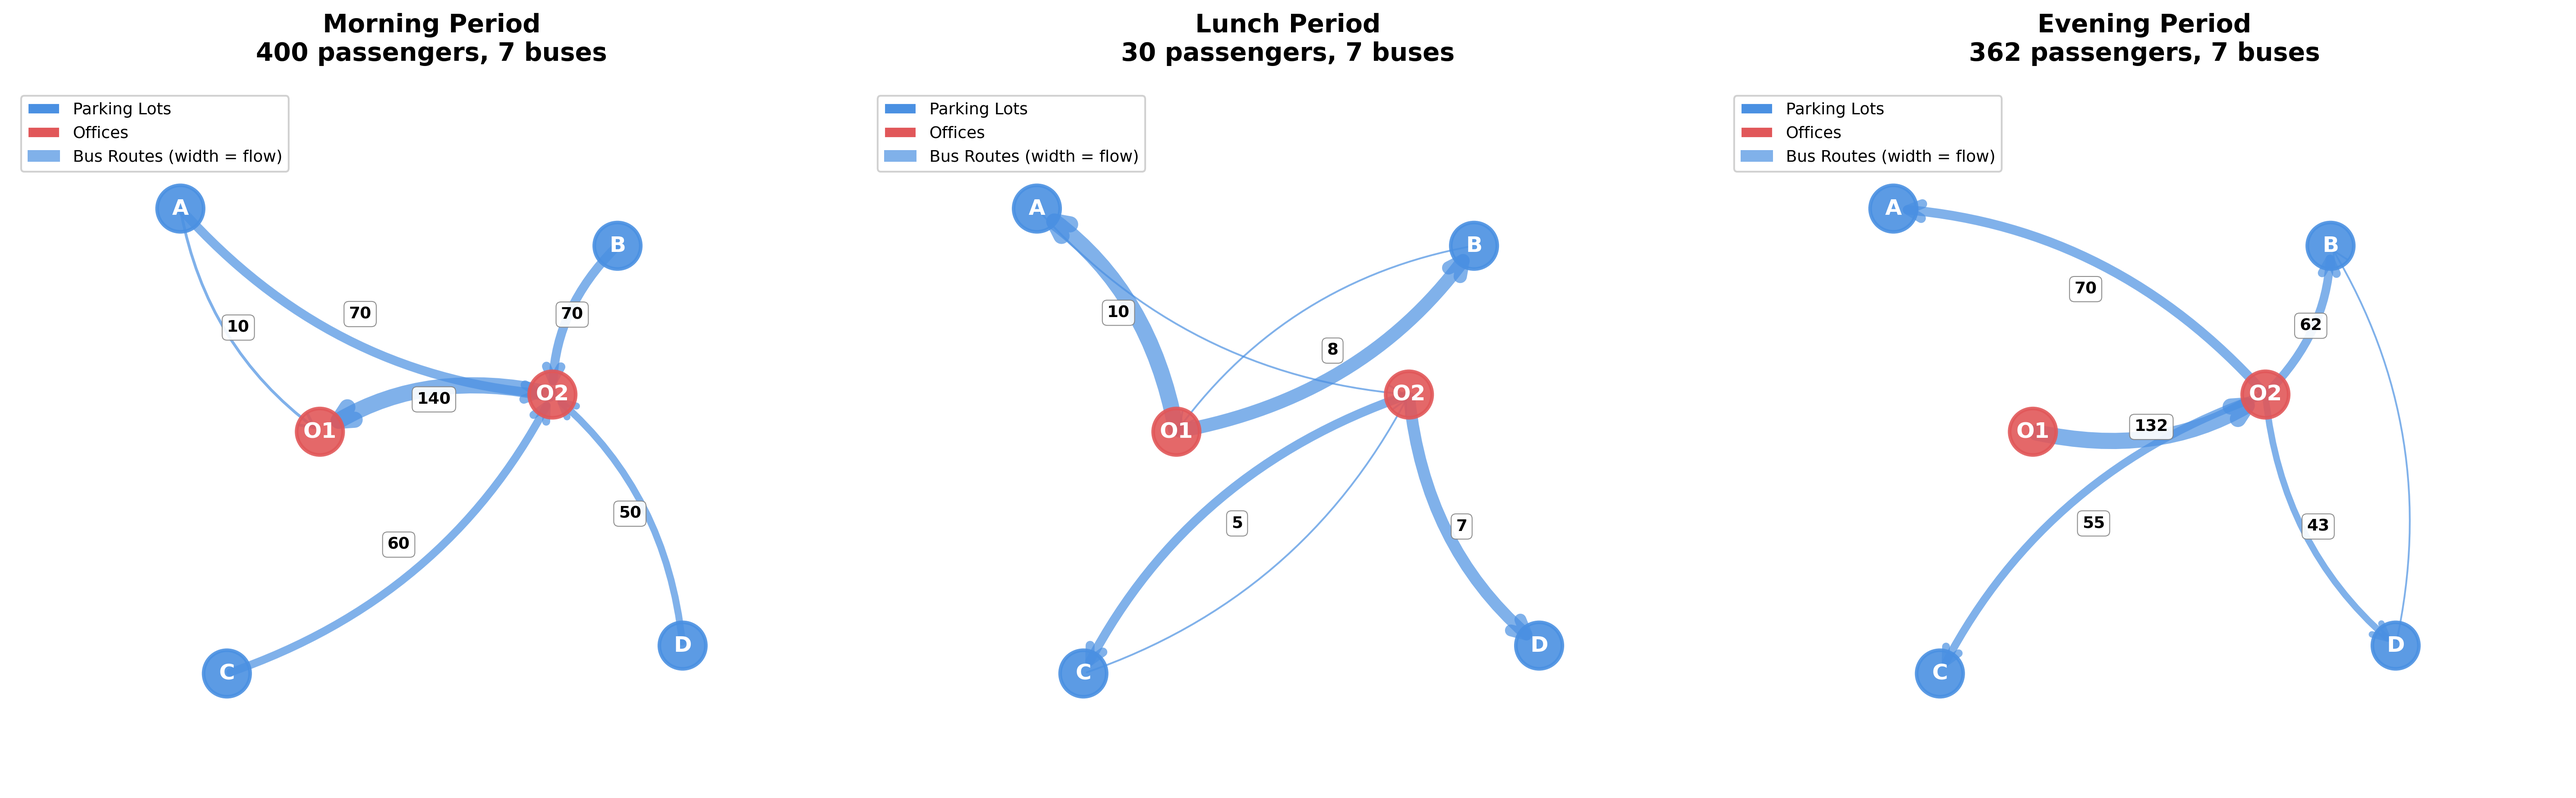
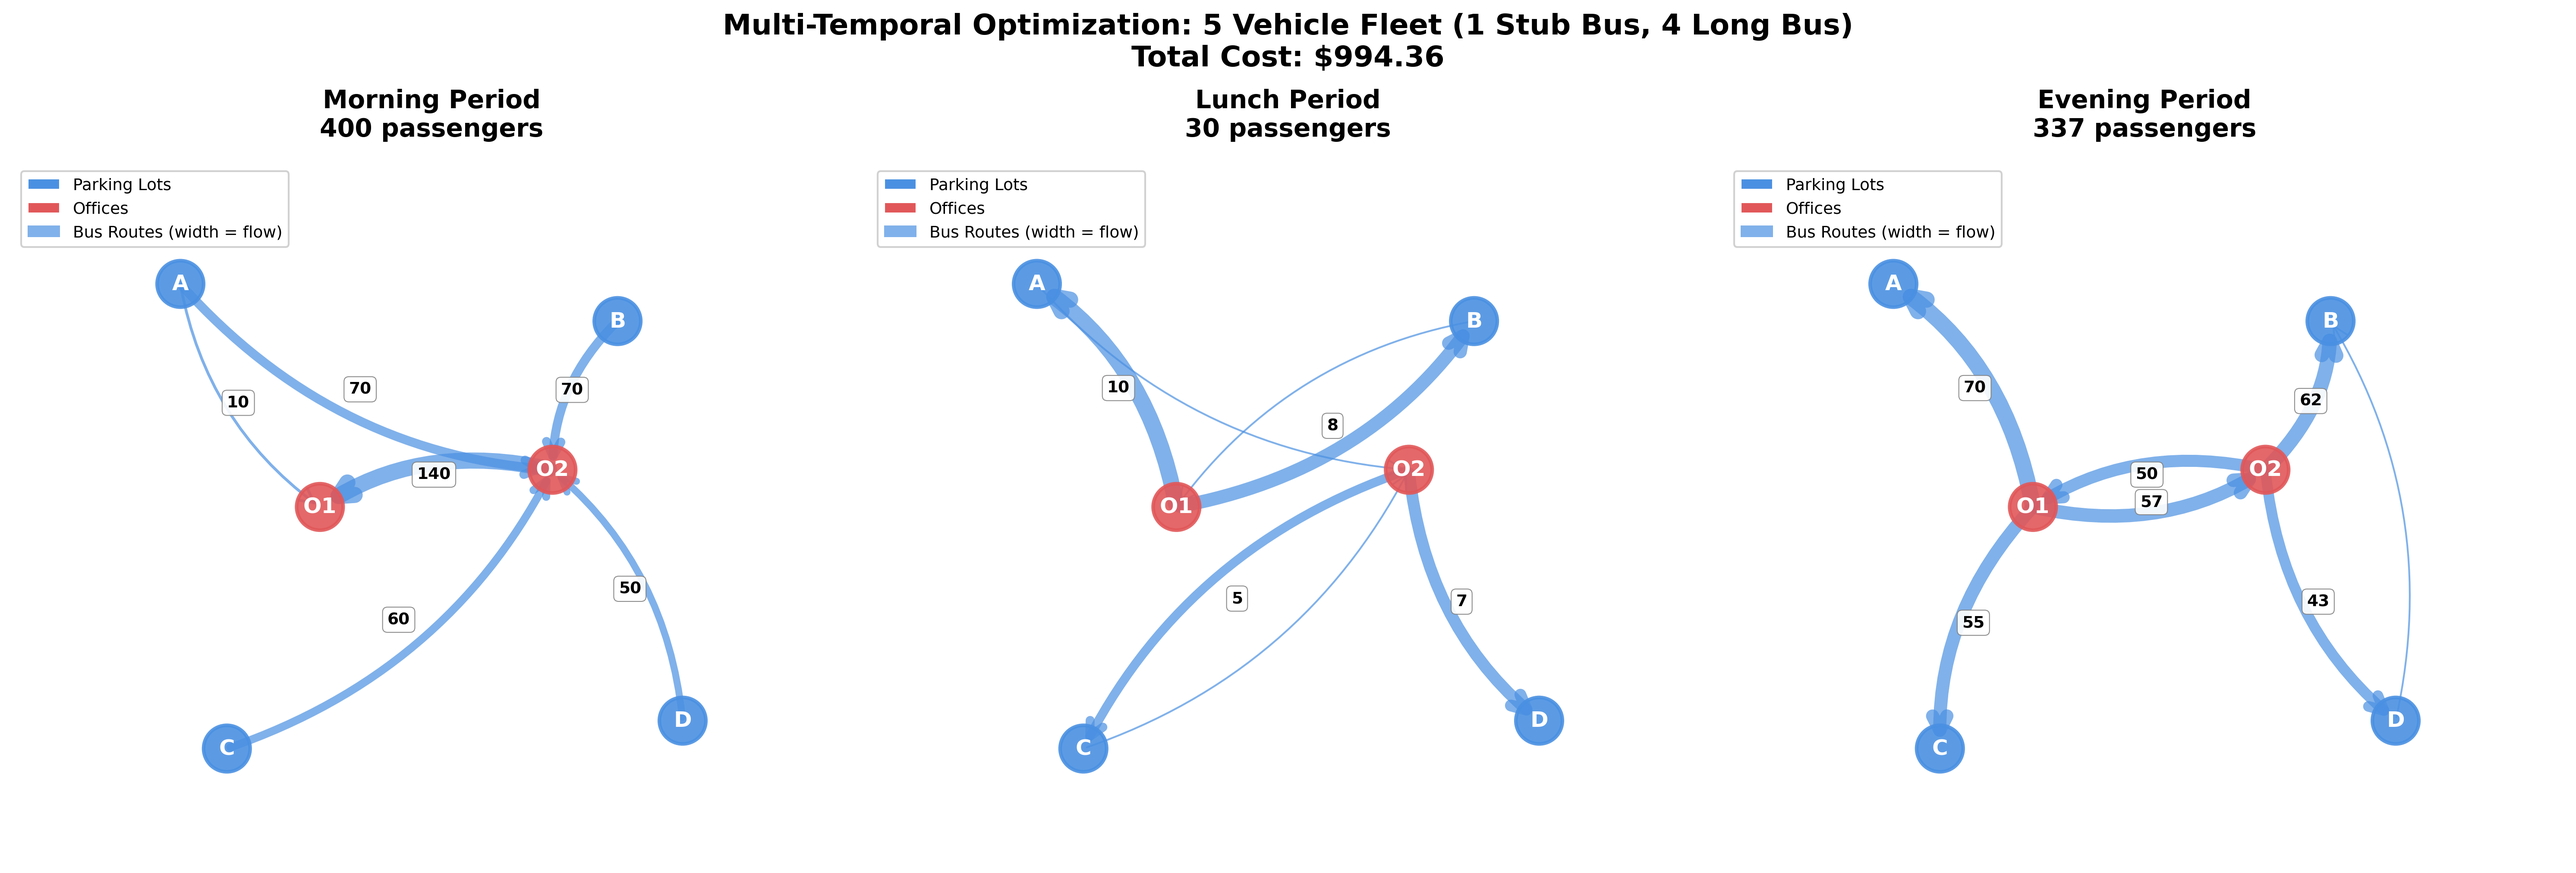
multitemporal debugging

diff --git a/shuttle_optimization.py b/shuttle_optimization.py
@@ -1254,11 +1254,43 @@ class MultiTemporalShuttleOptimization:
 
         # Extract parked buses
         for location in all_locations:
-            for bus_type in self.bus_types:
-                for period in self.periods:
-                    park_val = Park[(location, bus_type.name, period)].varValue
-                    if park_val and park_val > 0:
-                        self.parked_buses[(location, bus_type.name, period)] = int(park_val)
+            for bus_type in self.bus_types:  # <--- CRITICAL: Must iterate per bus type
+                for t in range(len(self.periods) - 1):
+                    period_curr = self.periods[t]
+                    period_next = self.periods[t+1]
+                    
+                    # 1. Calculate buses ending at 'location' in 'period_curr'
+                    # Ending = (Parked at start) + (Arriving) - (Departing)
+                    
+                    # Buses starting parked at this location in current period
+                    start_parked = Park[(location, bus_type.name, period_curr)]
+                    
+                    # Buses arriving at this location during current period
+                    arriving = pulp.lpSum([
+                        X[(from_node, location, bus_type.name, period_curr)]
+                        for from_node in self.nodes 
+                        if (from_node, location) in self.cost_matrix
+                    ])
+                    
+                    # Buses departing this location during current period
+                    departing = pulp.lpSum([
+                        X[(location, to_node, bus_type.name, period_curr)]
+                        for to_node in self.nodes
+                        if (location, to_node) in self.cost_matrix
+                    ])
+                    
+                    buses_at_end_of_curr = start_parked + arriving - departing
+        
+                    # 2. Calculate buses starting at 'location' in 'period_next'
+                    # This is simply the Park variable for the next period, 
+                    # assuming 'Park' represents the inventory available at the start of the period.
+                    buses_at_start_of_next = Park[(location, bus_type.name, period_next)]
+        
+                    # 3. Enforce Equality
+                    self.problem += (
+                        buses_at_end_of_curr == buses_at_start_of_next,
+                        f"Inventory_Link_{location}_{bus_type.name}_{period_curr}_{period_next}"
+                    )
 
         self.total_cost = pulp.value(self.problem.objective)
 

diff --git a/visualize_multitemporal_periods.py b/visualize_multitemporal_periods.py
@@ -224,25 +224,32 @@ def create_visualizations():
     # Create figure with three subplots
     fig, axes = plt.subplots(1, 3, figsize=(20, 7))
 
+    # Fleet composition string
+    fleet_str = ", ".join([f"{count} {name}" for name, count in stats['fleet_by_type'].items() if count > 0])
+
     plot_campus_with_routes(
         axes[0], sim, routes_morning,
-        f"Morning Period\n{pax_morning} passengers, {stats['buses_by_type_period']['morning']['Long Bus'] + stats['buses_by_type_period']['morning']['Stub Bus']} buses",
+        f"Morning Period\n{pax_morning} passengers",
         'morning'
     )
 
     plot_campus_with_routes(
         axes[1], sim, routes_lunch,
-        f"Lunch Period\n{pax_lunch} passengers, {sum(stats['buses_by_type_period']['lunch'].values())} buses",
+        f"Lunch Period\n{pax_lunch} passengers",
         'lunch'
     )
 
     plot_campus_with_routes(
         axes[2], sim, routes_evening,
-        f"Evening Period\n{pax_evening} passengers, {stats['buses_by_type_period']['evening']['Long Bus'] + stats['buses_by_type_period']['evening']['Stub Bus']} buses",
+        f"Evening Period\n{pax_evening} passengers",
         'evening'
     )
 
-    plt.tight_layout()
+    # Add overall title with fleet information
+    fig.suptitle(f"Multi-Temporal Optimization: {stats['total_fleet_size']} Vehicle Fleet ({fleet_str})\nTotal Cost: ${stats['total_cost']:.2f}",
+                 fontsize=16, fontweight='bold', y=0.98)
+
+    plt.tight_layout(rect=[0, 0, 1, 0.95])
 
     # Save figure
     os.makedirs('plots', exist_ok=True)
